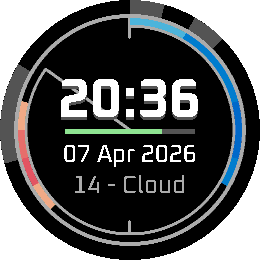
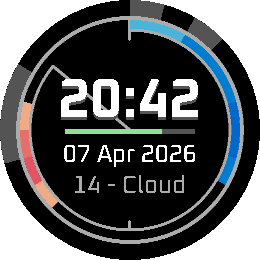
Work on skyline

diff --git a/watchfaces/skyline/src/c/windows/main_window.c b/watchfaces/skyline/src/c/windows/main_window.c
@@ -37,9 +37,9 @@ static void canvas_update_proc(Layer *layer, GContext *ctx) {
   graphics_context_set_stroke_color(ctx, GColorLightGray);
   graphics_context_set_stroke_width(ctx, INNER_RING_W);
   int notch_x = half_w - 1;
-  int notch_y = scl_y_pp({.o = 130, .c = 60, .e = 130, .g = 60});
+  int notch_y = scl_y_pp({.o = 140, .c = 70, .e = 140, .g = 70});
   graphics_draw_line(ctx, GPoint(notch_x, notch_y), GPoint(notch_x, notch_y + NOTCH_L));
-  notch_y = scl_y_pp({.o = 790, .c = 860, .e = 790, .g = 850});
+  notch_y = scl_y_pp({.o = 780, .c = 850, .e = 780, .g = 850});
   graphics_draw_line(ctx, GPoint(notch_x, notch_y), GPoint(notch_x, notch_y + NOTCH_L));
 
   // Conditions chunks outside outer arc according to weather conditions

diff --git a/watchfaces/skyline/src/c/config.h b/watchfaces/skyline/src/c/config.h
@@ -6,14 +6,14 @@
 
 #if defined(PBL_PLATFORM_BASALT) || defined(PBL_PLATFORM_CHALK)
   #define OUTER_RING_W 3
-  #define OUTER_RING_INSET 10
-  #define TEMP_RING_W 7
+  #define OUTER_RING_INSET 12
+  #define TEMP_RING_W 8
   #define INNER_RING_W 2
   #define SEP_H 4
 #else
   #define OUTER_RING_W 4
-  #define OUTER_RING_INSET 16
-  #define TEMP_RING_W 9
+  #define OUTER_RING_INSET 18
+  #define TEMP_RING_W 11
   #define INNER_RING_W 3
   #define SEP_H 5
 #endif
